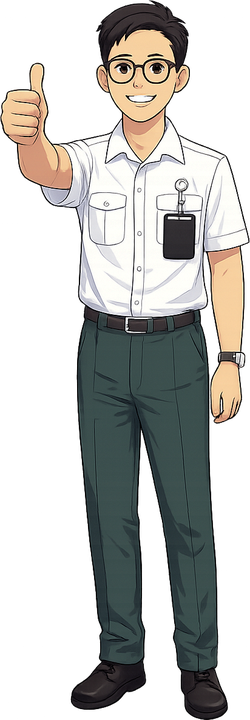
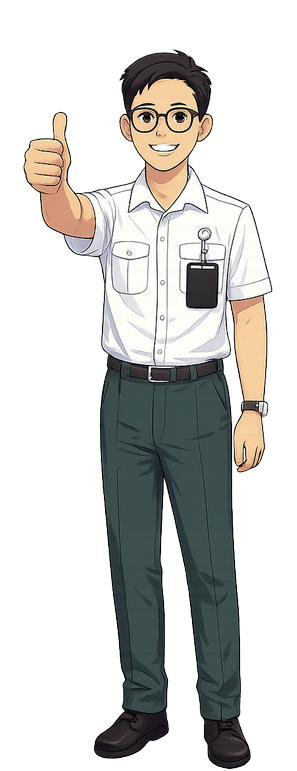
v109: equal-height result-screen cartoons on a shared 297x771 canvas, slots capped to card height for trial mode

diff --git a/index.html b/index.html
@@ -680,16 +680,24 @@ html[lang^="en"] .game-stage.patient-simple-hud .action-main{
   width:100%; max-width:1080px; margin:auto; flex:0 0 auto;
 }
 .result-stage .result-card{ flex:1 1 auto; min-width:0; }
+/* Each cartoon sits in a slot stretched to the card height, so the figures are
+   never taller than the card (trial mode has no video panel and a short card)
+   and both share one 297x771 canvas with feet and head heights aligned. */
 .result-cheer{
-  flex:0 0 auto; width:clamp(96px, 15vw, 190px); height:auto; align-self:flex-end;
+  flex:0 0 auto; width:clamp(96px, 15vw, 190px); align-self:stretch; position:relative;
+  min-height:0; pointer-events:none; user-select:none; -webkit-user-select:none;
+}
+.result-cheer img{
+  position:absolute; left:0; right:0; top:0; bottom:0; width:100%; height:100%;
+  object-fit:contain; object-position:center bottom;
   filter:drop-shadow(0 4px 8px rgba(44,24,16,0.16));
-  pointer-events:none; user-select:none; -webkit-user-select:none;
 }
 .result-cheer[hidden]{ display:none; }
 .result-stage.research-mode .result-cheer{ display:none; }
 @media (max-width:700px){
-  .result-stage{ flex-wrap:wrap; gap:8px 18px; }
-  .result-cheer{ order:-1; width:clamp(84px, 24vw, 130px); }
+  .result-stage{ flex-wrap:wrap; gap:8px 18px; align-items:flex-end; }
+  .result-cheer{ order:-1; width:clamp(84px, 24vw, 130px); align-self:flex-end; position:static; }
+  .result-cheer img{ position:static; width:100%; height:auto; }
   .result-stage .result-card{ flex-basis:100%; }
 }
 .result-card{
@@ -2179,8 +2187,8 @@ html[lang^="en"] .game-stage.patient-simple-hud .action-main{
     <div class="result-stage" id="resultStage">
       <!-- v108: two department therapist cartoons cheer the participant on
            (thumbs-up on the left, fist-pump on the right). Public flow only. -->
-      <img class="result-cheer result-cheer-like" id="resultCheerLike"
-        src="img/advanced/result_cheer_like.png" alt="治療師卡通豎起拇指稱讚" width="250" height="720" decoding="async" loading="lazy">
+      <div class="result-cheer result-cheer-like" id="resultCheerLikeSlot"><img id="resultCheerLike"
+        src="img/advanced/result_cheer_like.png" alt="治療師卡通豎起拇指稱讚" width="297" height="771" decoding="async" loading="lazy"></div>
     <div class="result-card">
       <h2 id="resultTitle">訓練完成</h2>
       <div id="resultContext" style="font-size:14px;font-weight:700;color:var(--muted);margin:-8px 0 4px;"></div>
@@ -2602,8 +2610,8 @@ html[lang^="en"] .game-stage.patient-simple-hud .action-main{
       <button class="btn-primary" id="btnRetry">再玩一次</button>
       <button class="btn-secondary" id="btnHome">返回主頁</button>
     </div>
-      <img class="result-cheer result-cheer-go" id="resultCheerGo"
-        src="img/advanced/result_cheer_go.png" alt="治療師卡通舉拳加油" width="278" height="720" decoding="async" loading="lazy">
+      <div class="result-cheer result-cheer-go" id="resultCheerGoSlot"><img id="resultCheerGo"
+        src="img/advanced/result_cheer_go.png" alt="治療師卡通舉拳加油" width="297" height="771" decoding="async" loading="lazy"></div>
     </div>
   </div>
 
@@ -12106,7 +12114,7 @@ function updateFramePerfOverlay(now){
     framePerf.overlayEl = el;
   }
   const p = framePerfSnapshot();
-  el.textContent = `perf v108  ${p.fps} fps  幀 ${p.frameMs} ms\n追蹤 ${p.trackMs} ms  繪圖 ${p.renderMs} ms  長幀 ${p.longFrames}\n`
+  el.textContent = `perf v109  ${p.fps} fps  幀 ${p.frameMs} ms\n追蹤 ${p.trackMs} ms  繪圖 ${p.renderMs} ms  長幀 ${p.longFrames}\n`
     + `鏡頭 ${p.video[0]}×${p.video[1]}  畫布 ${p.canvas[0]}×${p.canvas[1]}  dpr ${p.dpr}  手模型 ${p.handDelegate || '-'}\n`
     + `手 ${p.hand.hands} 隻  標籤 ${p.hand.label || '-'} ${p.hand.score}  接納 ${p.hand.path || '-'}  嚴格 ${p.hand.strict} 連續 ${p.hand.continuity} 單手 ${p.hand.lone} 拒絕 ${p.hand.rejected}\n`
     + `左右手檢查 ${p.hand.check === 'off' ? '關' : '開'}  鎖定手形 ${p.hand.lockSize || '-'}  大小拒絕 ${p.hand.sizeRejected}  遠處拒絕 ${p.hand.farRejected}`
@@ -21098,7 +21106,7 @@ window.addEventListener('ychlanguagechange', ()=>{
 <!-- PUBLIC_BUILD_REMOVE_END -->
 <script>
 if ("serviceWorker" in navigator && (location.protocol === "https:" || location.hostname === "localhost" || location.hostname === "127.0.0.1")) {
-  const LEVEL_APP_BUILD = "v108-20260907-peg-release-cheer-cartoons";
+  const LEVEL_APP_BUILD = "v109-20260907-cheer-cartoon-equal-height";
   const levelAppHadController = Boolean(navigator.serviceWorker.controller);
   let levelAppReloading = false;
 

diff --git a/service-worker.js b/service-worker.js
@@ -1,4 +1,4 @@
-const CACHE_VERSION = "fthue-rehab-v108-20260907-peg-release-cheer-cartoons";
+const CACHE_VERSION = "fthue-rehab-v109-20260907-cheer-cartoon-equal-height";
 const OFFLINE_PAGE = "./offline.html";
 
 importScripts("./offline-assets.js");

diff --git a/progress.md b/progress.md
@@ -1637,3 +1637,10 @@ Original prompt: Fix Level 6–7 interactions: make light clothes-peg press dete
 - QA hooks (source only, stripped from dist): `__qa.perfOverlayRefresh()` (resets the 500 ms throttle, repaints, returns overlay text) and `pinchLive` / `perfTool` / `relaxOn` fields in `__qa.level6ToolState()`. In QA every RAF pass is stale (no camera), so the lost branch clears `lastToolPinchLive` between evaluates; screenshots must be taken within the throttle window right after the synchronous frame burst.
 - Tests: new `tests/v108-peg-release-relaxation.test.mjs` (13: constants, gate, pair floor, adaptive floor/direction, decisive-digit release, research literals intact, result-stage markup/CSS, sanitizer-safe comment); markers `v108-20260907-peg-release-cheer-cartoons` ×3 (index `LEVEL_APP_BUILD`, SW `CACHE_VERSION`, manifest start_url) with the 8 marker tests and the `/perf v108 {2}/` regex updated.
 - Validation: four groups 562 passed / 3 skipped / 0 failed (60 files: 113 + 168/171 + 172 + 109); `tools/checkjs.sh` 11 blocks OK, `node --check service-worker.js`, `git diff --check` clean; `dist/public` rebuilt (202 files), isolation 5/5 after build; dist: markers ×3, `.result-stage{` present, `__qa` absent, `window.__qa` undefined on a fresh static server; Playwright iPad 820×1180 / 1180×820 and laptop 1413×653: public result screen shows both cartoons with no horizontal overflow and card top ≥ 24 px, research result screen hides them, dist row layout renders the 250×720 / 278×720 assets, peg HUD screenshot shows the 衣夾 line (closed grasp near .270 → open release true) — `ych_rehab_qa_artifacts/v108/v108-qa-contact-sheet.png`.
+
+## 2026-09-07 v109 成績單卡通等高與試玩模式排版 (therapist request)
+- Therapist feedback on v108: 「個藍色女仔要同個男仔差唔多高度」, and the department uses 試玩 mode, so the result card has no video panel and is short (~393 px).
+- Assets: both cartoons re-composed on one 297×771 transparent canvas. The fist-pump figure is scaled ×1.069 so head-top→feet (716 px) matches the thumbs-up figure; feet sit on the same baseline (y 768), head tops at y 49/51. Equal canvas ⇒ equal rendered scale under any width clamp.
+- Markup/CSS: each `<img>` now sits in a `.result-cheer` slot `<div>` (`resultCheerLikeSlot` / `resultCheerGoSlot`) with `align-self:stretch; position:relative`; the image is `position:absolute; width:100%; height:100%; object-fit:contain; object-position:center bottom`, so the figures are never taller than the card (trial mode: figures 393 px = card height on iPad landscape / laptop) while still bottom-aligned next to a tall card (video panel: 459 px on iPad landscape, width-limited). `<700px` wrap keeps static images above the card. Hidden rules for `[hidden]` / `.research-mode` unchanged (they target the slots).
+- Markers `v109-20260907-cheer-cartoon-equal-height` ×3 (index `LEVEL_APP_BUILD`, SW `CACHE_VERSION`, manifest start_url) + 8 marker tests, `/perf v109 {2}/`, HUD `perf v109`; `tests/v108-peg-release-relaxation.test.mjs` updated for the slot markup, 297×771 attributes, `align-self:stretch` and `object-fit` rules (13/13).
+- Validation: four groups 562 passed / 3 skipped / 0 failed (60 files: 113 + 168/171 + 172 + 109); `tools/checkjs.sh` 11 blocks OK, `node --check service-worker.js`, `git diff --check` clean; `dist/public` rebuilt (202 files), isolation 5/5 after build; dist markers ×3, `.result-cheer img{` rule present, `__qa` absent, `window.__qa` undefined on a fresh static server; Playwright iPad 820×1180 / 1180×820 / laptop 1413×653 × {trial, video, research} on source and trial on dist: both figures identical rendered size and bottom (e.g. landscape trial 151×393 each, bottom 607 = card bottom), research hides both, no horizontal overflow, no page errors — `ych_rehab_qa_artifacts/v108b/v108b-qa-contact-sheet.png`.

diff --git a/security-reviews/v109-security-review.md b/security-reviews/v109-security-review.md
@@ -1,0 +1,36 @@
+# v109 Release and Security Review — Equal-Height Result-Screen Cartoons
+
+Build marker: `v109-20260907-cheer-cartoon-equal-height`
+Date: 2026-09-07 (HKT)
+Scope: `index.html` (result-screen cartoon markup and CSS, markers, HUD label), `service-worker.js`, `manifest.webmanifest`, re-composed `img/advanced/result_cheer_like.png` / `result_cheer_go.png` (297×771), tests, `progress.md`
+
+## Therapist request
+
+After v108 the blue-uniform fist-pump cartoon rendered visibly shorter than the thumbs-up cartoon, and the department runs 試玩 mode, where the result card has no video panel and is short, so figures taller than the card looked unbalanced.
+
+## Change summary
+
+| Area | v108 | v109 |
+|------|------|------|
+| Cartoon canvases | 250×720 and 278×720, different figure heights | one 297×771 canvas, head-to-feet 716 px for both, shared foot baseline |
+| Cartoon markup | bare `<img class="result-cheer">` | `<div class="result-cheer"><img></div>` slot per figure |
+| Sizing | width clamp, `height:auto`, bottom-aligned | slot stretches to card height; image `object-fit:contain`, bottom-anchored → never taller than the card, still width-clamped |
+| Peg release logic, HUD content, Level 5, research strings | — | unchanged |
+
+## Safety and privacy analysis
+
+- Presentation-only change: no game logic, detection thresholds, camera, storage, recording or upload code touched. The peg-release relaxation and its guards from v108 are byte-identical apart from the version label in the HUD.
+- The cartoons remain static local PNGs with descriptive alt text and `pointer-events:none`; hidden in research mode via the existing `.result-stage.research-mode .result-cheer{display:none}` (now applied to the slots), so the strict flow is visually unchanged.
+- The new CSS comment contains no sanitizer-forbidden words; the `.result-cheer img{` rule is present in `dist/public`, and `__qa` remains absent from the public build.
+- Service worker: `CACHE_VERSION` bumped so clients fetch the re-composed images and CSS.
+
+## Verification
+
+- Unit tests, four sequential groups: 113/113, 168/171 (3 skipped, pre-existing), 172/172, 109/109 — 562 passed / 3 skipped / 0 failed across 60 files, `tests/v108-peg-release-relaxation.test.mjs` 13/13 with the new slot/CSS assertions.
+- `tools/checkjs.sh` 11 blocks OK; `node --check service-worker.js`; `git diff --check` clean.
+- `./scripts/build-dist.sh` → 202 files; isolation test 5/5 after build; marker ×3 in dist; `window.__qa` undefined on a fresh static server.
+- Playwright (iPad 820×1180, 1180×820, laptop 1413×653) × {trial, video panel, research} on source and trial on dist: both figures identical rendered size and shared bottom edge (landscape trial 151×393 each, equal to the card height; video 177×459 bottom-aligned with the card), research mode hides both, no horizontal overflow, no page errors. Contact sheet: `ych_rehab_qa_artifacts/v108b/v108b-qa-contact-sheet.png`.
+
+## Residual risk
+
+- None beyond v108. Untracked `v91_*.md` / `v92_*.md` stay outside version control; `dist/` remains gitignored.
